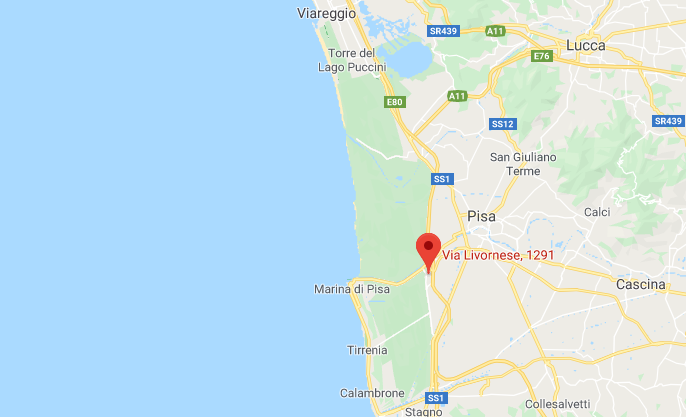
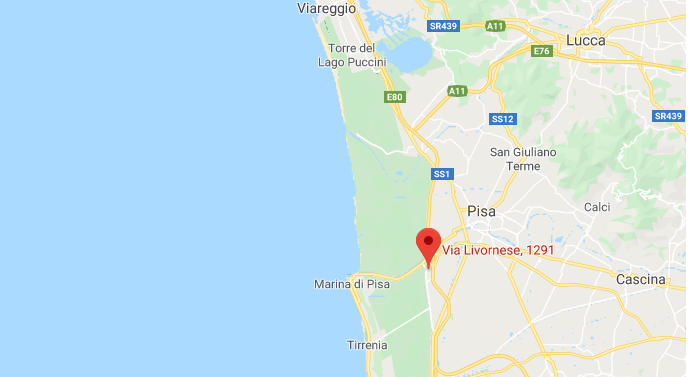
upd

Changed region(s): [[0.4286, 0.0, 1.0, 1.0], [0.551, 0.4377, 0.5816, 0.4668]]

diff --git a/source/about.rst b/source/about.rst
@@ -2,26 +2,39 @@ About Unipi HPC
 ===================
 
 
-The Unipi HPC Datacenter (**UnipiHPC**) is ...
+The Unipi HPC Datacenter (**UnipiHPC**) is a Data Center of `Università di Pisa <http://www.unipi.it>`_ for Computing@Unipi 
+buid with sustainability and 
+expandability in mind.
 
-.. image:: ./images/data_center_macchine.jpg
-    :width: 400
+.. image:: ./gallery/gallery_images/OUT/_DSC7130-01_header.jpeg
+    :width: 50%
+
+.. image:: ./gallery/gallery_images/DETAILS/_DSC7164-01_header.jpeg
+    :width: 50%
+
+.. .. image:: ./gallery/gallery_images/GROUP/_DSC7167-01_header_2.jpeg
+..    :width: 100%
+
+
+
+.. image:: ./gallery/gallery_images/GROUP/_DSC7217-01_header_3.jpeg
+    :width: 50%
 ..    :alt: Alternative text
 
-San Piero a Grado (PI) in Via Livornese 1291.
 
-The Green HPC Data Center was built in an area owned by University of Pisa which is located inside the Parco di Migliarino, San rossore massaciuccoli (San Piero a Grado (PI) in Via livornese 1291).
+The HPC Data Center is built in an area owned by University of Pisa which is located inside the Parco di Migliarino, San rossore massaciuccoli (San Piero a Grado (PI) in Via livornese 1291).
 
 
 .. image:: ./images/maps.png
-    :width: 400
+    :width: 50%
     :alt: San Piero a Grado (PI) in Via Livornese 1291
+
 .. image:: ./images/maps2.png
-    :width: 400
+    :width: 50%
     :alt: San Piero a Grado (PI) in Via Livornese 1291
 
 
-The building that houses it has been adapted to the new function, creating a unique space for the main engine room of about 250 square meters. The area is located about 8 km from the centre of Pisa and is reached by a fiber optic ring, also owned by the University, which guarantees a high level of connectivity and reliability. 
+The building has been adapted to the new function, creating a unique space for the main engine room of about 250 square meters. The area is located about 8 km from the centre of Pisa and is reached by a fiber optic ring, also owned by the University, which guarantees a high level of connectivity and reliability. 
 
 The construction time of the Centre was particularly tight, from February to October 2016, especially considering the particular location of the property, in an area with strong landscape constraints, and the total amount of the intervention, about 1.4 million euros.
 
